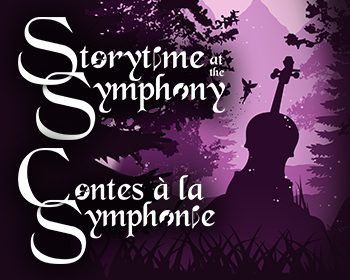
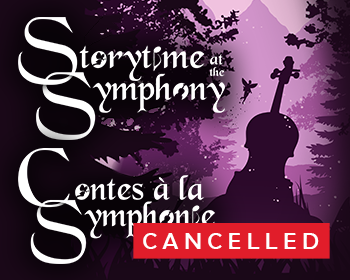
cancel SATS update

Changed region(s): [[0.3714, 0.7714, 0.9429, 0.9429]]

diff --git a/SATS.html b/SATS.html
@@ -79,39 +79,10 @@
             <div class="row">
               <div class="col-md-8">
                 <h5 class="concert-title">Storytime at the Symphony</h5>
-              </div>
-              <!-- <div class="col-md">
-                <a href="#" class="btn btn-maroon btn-block">BUY TICKETS</a>
-              </div> -->
             </div>
             <div class="concert-description">
-              <div class="row">
-                <div class="col-md-4">
-                  <i class="far fa-calendar-alt"></i> March 23, 2018
-                </div>
-                <div class="col-md-4">
-                  <i class="far fa-clock"></i> 2:30PM<br><br>
-                </div>
-              </div>
-              <div class="row">
-                <div class="col-md-4 bold">
-                  Language of the Event:
-                </div>
-                <div class="col-md-4">
-                  French and English
-                </div>
-              </div>
-              <div class="row">
-                <div class="col-md-4 bold">
-                  Suggested Age:
-                </div>
-                <div class="col-md-4">
-                  All Ages<br><br
-                </div>
-              </div>
-              <p>Join Ottawa Pops Orchestra (OPO) for an afternoon of whimsy and enchantment as they present a delightful concert filled with story-time wonder.
-                Rediscover Prokofiev’s acclaimed symphonic fairy-tale Peter and the Wolf and other tales as old as time as the OPO transports you to a charming world of musical fantasy.
-                Program is suitable for all ages - families with young children are encouraged to attend!</p>
+              <p>Due to unforeseen complications, the Ottawa Pops Orchestra is regretfully cancelling Storytime at the Symphony, originally scheduled for Saturday March 23, 2019 at 2:30pm, for the 2018-19 season. Full refunds will be issued to anyone who has already purchased tickets to this performance.</p>
+              <p><strong>To claim your refund, please contact the Meridian Theatres at Centrepointe box office at 613-580-2700 or toll-free at 1-866-752-5231.</strong></p>
             </div>
           </div>
           <hr>
@@ -136,7 +107,7 @@
           <div class="col-sm-4">
             <a href="#">
               <div class="thumbnail center">
-                <h4><span class="label label-info">March 23</span></h4>
+                <h4><span class="label label-info">CANCELLED</span></h4>
                 <img class="img-responsive" alt="a" src="img/concerts-full/SATSDetail.png">
               </div>
             </a>

diff --git a/concerts.html b/concerts.html
@@ -137,13 +137,10 @@
                 <!-- <a href="#" class="btn btn-maroon btn-block">BUY TICKETS</a> -->
               </div>
             </div>
-            <div class="concert-description">
+            <div class="concert-description" style="padding-bottom: 30px;">
               <div class="row">
-                <div class="col-md-4">
-                  <i class="far fa-calendar-alt"></i> March 23, 2018
-                </div>
-                <div class="col-md-4">
-                  <i class="far fa-clock"></i> 2:30PM<br><br>
+                <div class="col-md">
+                    This concert has been cancelled
                 </div>
               </div>
             </div>

diff --git a/Disney.html b/Disney.html
@@ -142,7 +142,7 @@
             <div class="col-sm-4">
               <a href="SATS.html" target="_blank">
                 <div class="thumbnail center">
-                  <h4><span class="label label-info">March 23</span></h4>
+                  <h4><span class="label label-info">CANCELLED</span></h4>
                   <img class="img-responsive" alt="a" src="img/concerts-full/SATSDetail.png">
                 </div>
               </a>

diff --git a/StarWars.html b/StarWars.html
@@ -261,7 +261,7 @@
           <div class="col-sm-4">
             <a href="SATS.html" target="_blank">
               <div class="thumbnail center">
-                <h4><span class="label label-info">March 23</span></h4>
+                <h4><span class="label label-info">CANCELLED</span></h4>
                 <img class="img-responsive" alt="a" src="img/concerts-full/SATSDetail.png">
               </div>
             </a>

diff --git a/index.html b/index.html
@@ -134,7 +134,7 @@
         <div class="col-sm-4">
           <a href="SATS.html" target="_blank">
             <div class="thumbnail center">
-              <h4><span class="label label-info">March 23</span></h4>
+              <h4><span class="label label-info">CANCELLED</span></h4>
               <img class="img-responsive" alt="a" src="img/concerts-full/SATSDetail.png">
             </div>
           </a>
